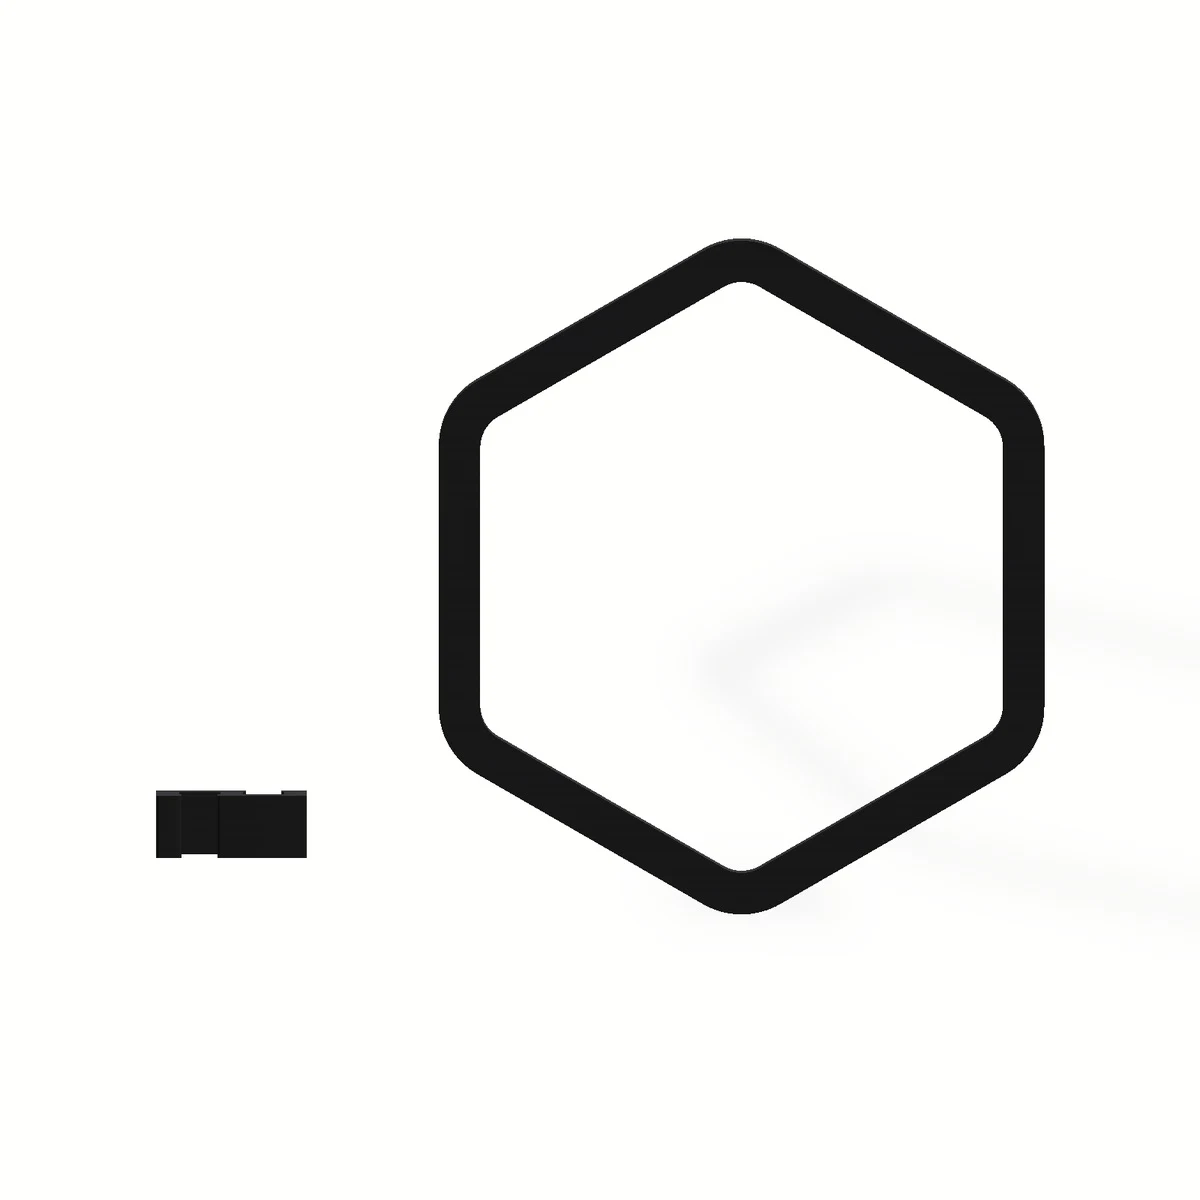
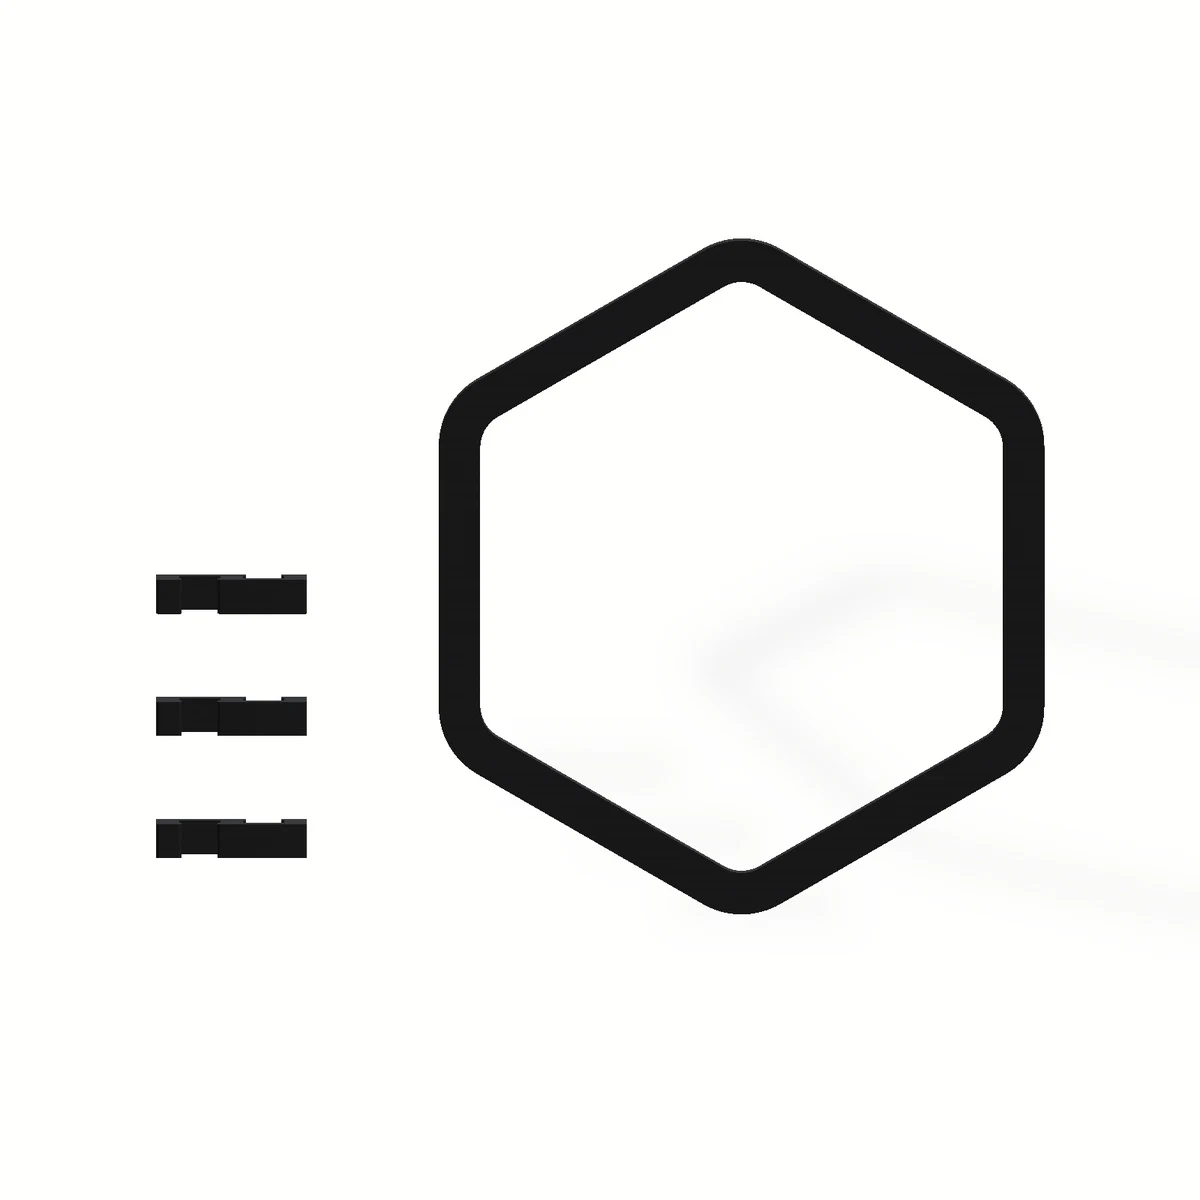
拡張パーツ: 留め具を3個に（画像・説明をBASEと同期）

Changed region(s): [[0.1233, 0.4625, 0.2775, 0.5242], [0.1233, 0.6475, 0.2775, 0.7092], [0.1233, 0.555, 0.2775, 0.6167]]

diff --git a/app/lib/products.ts b/app/lib/products.ts
@@ -255,10 +255,10 @@ export const PRODUCTS: Product[] = [
     image: "/products/product-hexparts-black.webp",
     baseUrl: `${SHOP}/items/159543653`,
     summary:
-      "樹脂版PLANTS POLEを伸ばすための六角形パーツ1つ＋留め具1個。いま使っている支柱の辺と六角形の辺を並べ、留め具でパチッと挟むだけ。4色。",
+      "樹脂版PLANTS POLEを伸ばすための六角形パーツ1つ＋留め具3個。いま使っている支柱の辺と六角形の辺を並べ、留め具でパチッと挟むだけ。4色。",
     lead:
       "植物の成長に合わせて、1連→2連→3連と後から伸ばせます。留め具は隣り合う2本の線を1本ずつ咥えるS字型で、入れたあとはねじらないと外れません。鉄製PLANTS POLEには使えません。",
-    height: "六角形 高さ 約72mm／留め具 約16×8×4mm",
+    height: "六角形 高さ 約72mm／留め具 約16×8×4mm ×3",
     width: "六角形 幅 約64mm／線の太さ4.4mm・厚み3.6mm",
     material: "PLA樹脂（3Dプリント・マット仕上げ）",
     plants: ["樹脂版PLANTS POLE（1つ／2つ／3つの六角形）を使っている株"],
